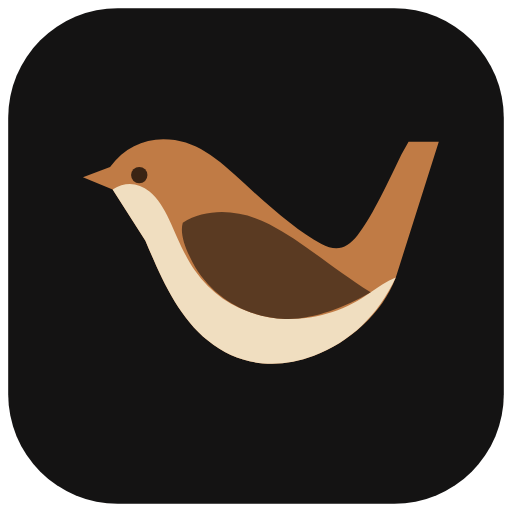
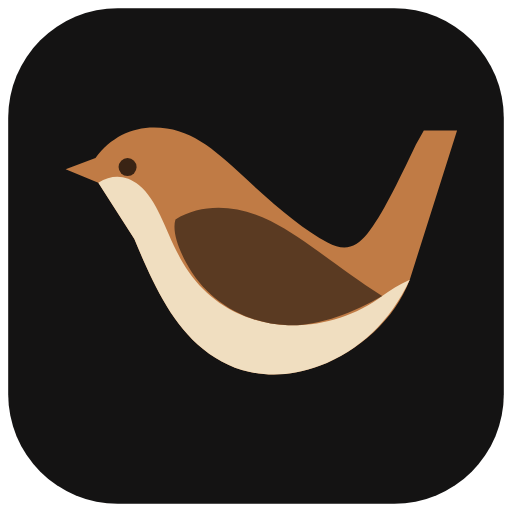
Scale desktop app mark for taskbar clarity

Changed region(s): [[0.125, 0.25, 0.9062, 0.75], [0.4688, 0.3438, 0.5, 0.375], [0.4375, 0.3125, 0.4688, 0.3438]]

diff --git a/asset/review/wren-brand-release-v1/README.md b/asset/review/wren-brand-release-v1/README.md
@@ -18,3 +18,8 @@ The original user-approved generated image is retained beside this file as
 `approved-character-flat-source.png`. It records provenance and visual intent;
 it is not a shipping asset. Rejected exploration rounds and superseded review
 renders are intentionally excluded from the release pack.
+
+The installed app tile enlarges the canonical full-color mark to 110 percent
+around the canvas center for clearer taskbar and dock recognition. This optical
+scale applies only to the app tile; tray and menu-bar reductions retain their
+independent native-size corrections.
